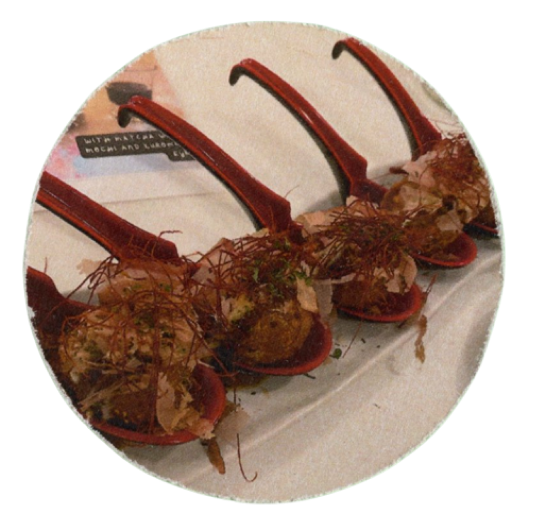
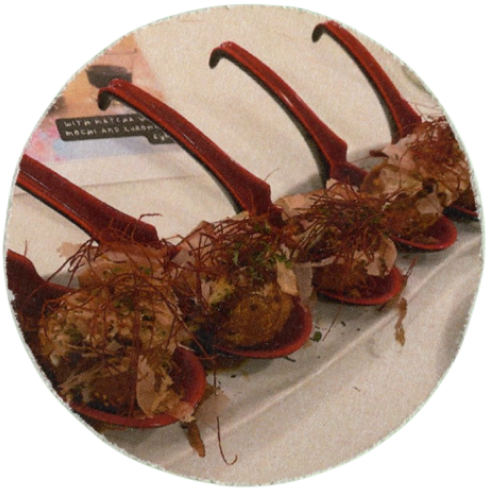
with flip not centered

diff --git a/studio2/styles.css b/studio2/styles.css
@@ -135,13 +135,54 @@ back a:hover {
 }
 
 .review:hover .back{
-    transform: rotateY(180deg);
+    position: absolute;
+    transform: rotateY(0deg);
+    top: 50%;
+    left:50%;
 }
 .review:hover .front{
-    transform: rotateY(0deg);
+    position: absolute;
+    transform: rotateY(180deg);
+    top: 50%;
+    left:50%;
 }
 
 p {
     font-family: Schoolbell, cursive;
+    position: relative;
+}
+
+/* .back {
+    position: absolute;
+    top: 50%;
+    left:50%;
+    transform: translate(-50%, -50%);
+} */
+
+.back, .front {
+    backface-visibility: hidden; 
+    transition: 0.7s;
+    position: absolute;
+    border-radius: 50%;
+    top: 50%;
+    left:50%;
+    transform: translate(-50%, -50%);
+}
+
+.back {
+    position: absolute;
+    
+    background-color: white;
+    transform: rotateY(-180deg);
+    height: 450px;
+    width: 450px;
+}
+
+#latte {
+    transform: rotate(8deg);
+} 
+
+#tako {
+    transform: rotate(-20deg);
 }
 

diff --git a/studio2/index.html b/studio2/index.html
@@ -74,7 +74,7 @@
             <section class="five">
                 <div class="review">
                     <div class="front">
-                        <img src="images/fifth.png" alt="pork plate">
+                        <img src="images/fifth.png" alt="pork plate" id="tako">
                     </div> 
                     <div class="back" id="pocha">
                         <p>some text</p>
@@ -94,7 +94,7 @@
             <section class="seven">
                 <div class="review">
                     <div class="front">
-                        <img src="images/seventh.png" alt="pork plate">
+                        <img src="images/seventh.png" alt="pork plate" id="latte">
                     </div>
                     <div class="back" id="pocha">
                         <p>some text</p>
